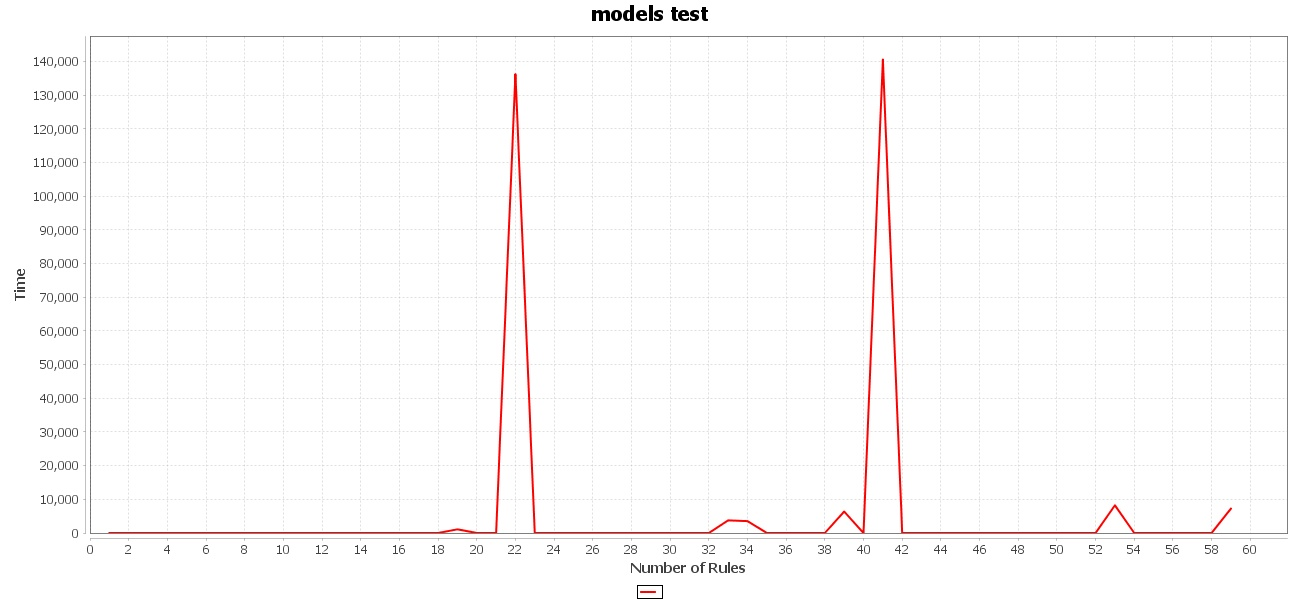
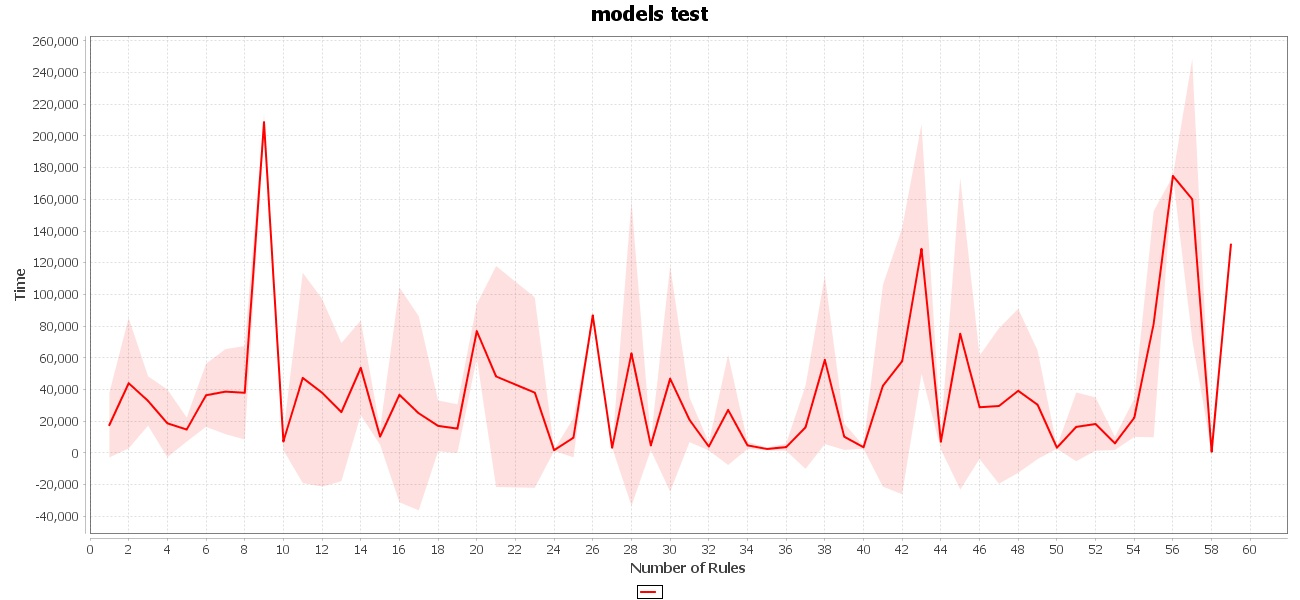
- uprava vypoctu odchylky

diff --git a/src/main/java/utilities/GraphRenderer.java b/src/main/java/utilities/GraphRenderer.java
@@ -9,7 +9,6 @@ import java.awt.BasicStroke;
 import java.awt.Color;
 import java.awt.Stroke;
 import java.io.File;
-import java.io.IOException;
 import java.util.ArrayList;
 import java.util.HashMap;
 import java.util.List;
@@ -22,8 +21,6 @@ import org.jfree.chart.plot.PlotOrientation;
 import org.jfree.chart.plot.XYPlot;
 import org.jfree.chart.renderer.xy.DeviationRenderer;
 import org.jfree.data.xy.XYDataset;
-import org.jfree.data.xy.XYSeries;
-import org.jfree.data.xy.XYSeriesCollection;
 import org.jfree.data.xy.YIntervalSeries;
 import org.jfree.data.xy.YIntervalSeriesCollection;
 import org.jfree.ui.RectangleInsets;
@@ -32,44 +29,45 @@ import org.jfree.ui.RectangleInsets;
  *
  * @author martin
  */
-public class GraphRenderer {    
+public class GraphRenderer {
+
     Map<Integer, List<Long>> data;
-    
+
     public GraphRenderer() {
         data = new HashMap<>();
     }
-    
+
     public void addValues(List<Integer> xValues, List<Long> yValues) {
         for (int i = 0; i < xValues.size(); i++) {
-            if (!data.containsKey(xValues.get(i))) {            
+            if (!data.containsKey(xValues.get(i))) {
                 data.put(xValues.get(i), new ArrayList<>());
             }
             data.get(xValues.get(i)).add(yValues.get(i));
         }
     }
-    
+
     private XYDataset createDataset() {
-        System.out.println("utilities.GraphRenderer.createDataset() " + data);
         YIntervalSeriesCollection dataset = new YIntervalSeriesCollection();
         YIntervalSeries s0 = new YIntervalSeries("");
 
         data.entrySet().forEach(point -> {
-            double mean   = (1 / point.getValue().size()) * point.getValue().stream().mapToLong(Number::longValue).sum();
-            
+//            double mean = (1 / point.getValue().size()) * point.getValue().stream().collect(Collectors.summingLong(Long::longValue));
+            double mean = point.getValue().stream().collect(Collectors.summingLong(Long::longValue)) / point.getValue().size();
+
             double meanSum = point.getValue().stream()
                     .map((y) -> Math.pow(y - mean, 2))
                     .collect(Collectors.summingDouble(Double::doubleValue));
-            
-            double stddev = Math.sqrt((1 / point.getValue().size()) * meanSum);
-            System.out.println(mean);
+
+//            double stddev = Math.sqrt((1 / point.getValue().size()) * meanSum);
+            double stddev = Math.sqrt(meanSum / point.getValue().size());
+            System.out.println(mean + "; " + meanSum + "; " + stddev);
             s0.add(point.getKey(), mean, mean - stddev, mean + stddev);
         });
 
-        
         dataset.addSeries(s0);
         return dataset;
     }
-    
+
     public void createGraph() {
         XYDataset dataset = createDataset();
 
@@ -82,7 +80,7 @@ public class GraphRenderer {
         );
 
         lineChart.setBackgroundPaint(Color.white);
-        
+
         XYPlot plot = (XYPlot) lineChart.getPlot();
         plot.setBackgroundPaint(Color.WHITE);
         plot.setAxisOffset(new RectangleInsets(5.0, 5.0, 5.0, 5.0));
@@ -106,7 +104,7 @@ public class GraphRenderer {
         renderer.setAlpha(0.12f);
 
         plot.setRenderer(renderer);
-        
+
         int width = 1300;
         /* Width of the image */
         int height = 600;
